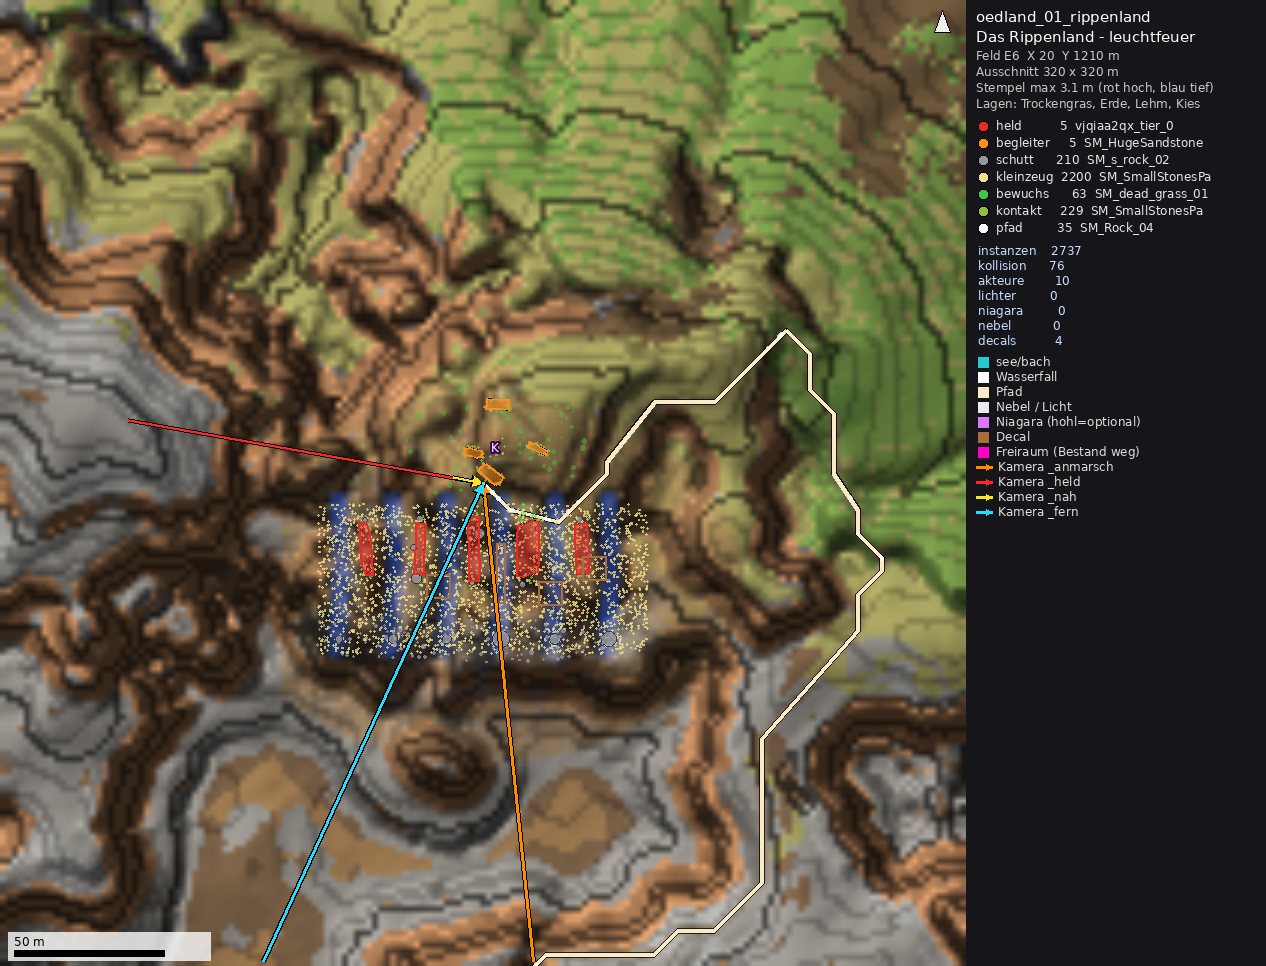
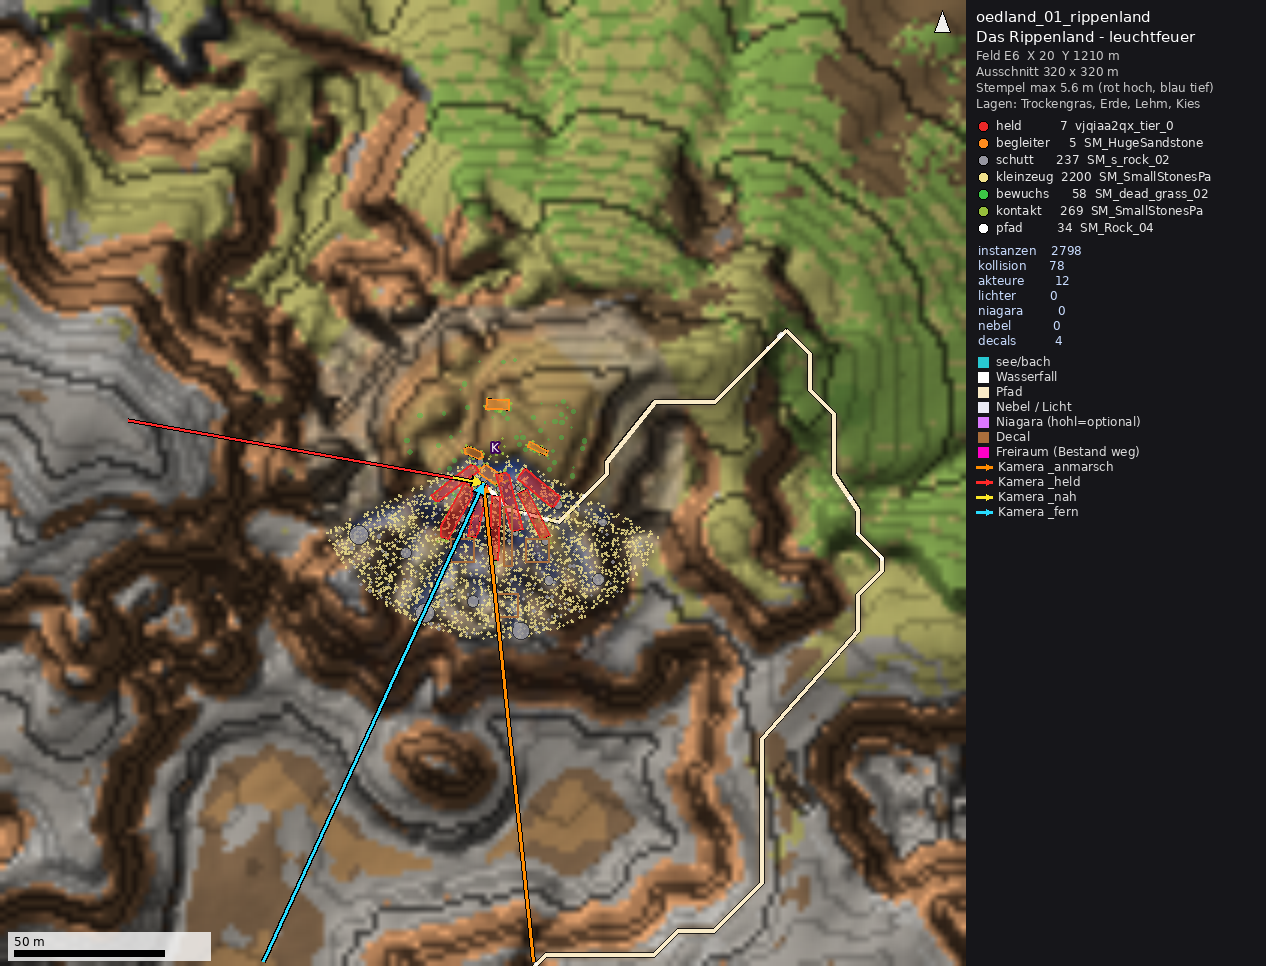
Auftrag 13 Phase 2: Planer Canyon, Wueste, Oedland fertig (je 8 Orte, Inventar 13d, Testbilder, READMEs)
Pruefer je Biom 0 FEHLER / 0 WARNUNG, zwei Laeufe byteidentisch, alle Fundstuecke mit Stempel verdeckt
(canyon_04/08, oedland_05/07/08 erst mit Stempel). Oedlandpfad meterweise auf die Lagenfenster verteilt.

Claude-Session: https://claude.ai/code/session_012h1LYW6NJeQxhd7im8Kkes

diff --git a/recherche/antworten/skripte/sehens_canyon/README.md b/recherche/antworten/skripte/sehens_canyon/README.md
@@ -1,0 +1,44 @@
+# sehens_canyon – Sehenswürdigkeiten-Planer Canyon (Auftrag 13, Phase 2)
+
+Baut die 8 Canyon-Orte aus `antworten/sehens/canyon/standorte.json` nach `sehens_canyon_regeln.json` (Katalog
+`sehens/canyon/katalog.md`, `asset_bedarf.json` inkl. `abgleich_13d`, Inventar 13d) im Lieferformat
+`vorlagen/SEHENS_FORMAT.md`. Muster: [`../sehens_bergwald/`](../sehens_bergwald/), Schema: [`../sehens_lib/PLANER_ANLEITUNG.md`](../sehens_lib/PLANER_ANLEITUNG.md).
+
+```
+python -I recherche/antworten/skripte/sehens_canyon/sehens_canyon.py --daten2m recherche/vorlagen/daten/sehens \
+       --aus <Ordner> [--ort ID ...] [--bild --bild-ordner recherche/antworten/sehens/canyon] [--ohne-sicht]
+python -I sehens_canyon.py --basis <production>      # lokal: 1 m aus export/unreal/welt, Ausgabe dort
+```
+
+Eigener Code: Hook `daemme` (Wälle/Gräben mit `stempel.damm`, Regel `gelaende.daemme`) und die Verdeckungsprüfung aller
+Fundstücke mit `sehens_lib.verdeckung` (Gelände nach Stempel + geplante Felsen, Wege inkl. aller Pfade; Regel `verdeckung`
+legt Kern/Proben fest). Alles andere steht in den Regeln.
+
+## Testlauf 2 m (11.10.2026, ~56 s, zwei Läufe byteidentisch)
+
+Planer 0 FEHLER / 0 WARNUNG; Prüfer (`orte.json` + `sw_canyon`) **0 FEHLER, 0 WARNUNG**, 6 HINWEIS (eigenes Decal optional,
+Beschreibung in `fuer`).
+
+| Ort | Inst. | Koll. | Akteure | Stempel | Held / Besonderheit |
+|---|---|---|---|---|---|
+| 01 Sonnenfenster | 2 511 | 185 | 11 | 1,5 m | Bogen: 2 Pfeiler `vjqiaa2qx` (Formation Layered) + Sturz `vceoferfa` (Cliff Layered XL 03, Unterkante 6,5 m), Finne `vb1mbdega` |
+| 02 Wäger | 1 457 | 72 | 9 | 2,6 m | Sockel `ulbwebv` (Spire Large 05, schmal), Kopf `SM_RockSandstone_040` (Deckstein), gefallener Bruder + Schleifspur |
+| 03 Rote Stufe | 4 687 | 272 | 29 | 5,5 m | 3 Etagen Desert Western Cliff/Formation Layered entlang der Stufe, Simskanten `vbvqbbofa`, Überhang, 3 Kegel |
+| 04 Flüsterschlucht | 1 779 | 96 | 26 | 13,6 m | Kerbe bis −17 m entlang des Bachs (ist_wasser), Wände `venuafk` beidseitig (gekippt), Klemmblöcke, Bach + 25-m-Fall, NS_Waterfall_Small/Impact_Small/Stream_Small |
+| 05 Hoodoo-Kessel | 2 668 | 145 | 42 | 18,1 m | Kessel bis 13 m unter den Rand (absolute Sohle, Canyonboden unberührt), 12 Hoodoos aus Spires + 3 Riesen `vh3oagiga`, Decksteine |
+| 06 Kolke | 1 580 | 63 | 14 | 1,6 m | 6 Kolke (`see`, klar) auf Slickrock (Desert Ground Patches), Rinnen, Binsenkranz, Nassband |
+| 07 Smaragdgumpe | 1 215 | 78 | 14 | 8,0 m | Alkoven −5 m + Riegel +8 m, Gumpe `smaragd` + Abfluss + Fadenfall 31 m, NS_Waterfall_Medium/Impact_Medium/Stream_Small, hängender Garten |
+| 08 Welle | 1 190 | 65 | 2 | 10,2 m | Mulde (absolute Sohle) mit Abfluss SW, Platten aus Desert Ground/Slate Patches, Schichtwand `vb1mbdega`, eigenes Decal `decal_welle.png` |
+
+Je Feld: C4 4 690, D4 12 397 Instanzen. Verdeckung (Fundstücke 04–08): alle **verdeckt** (0 Wegpunkte mit Sicht > 15 %),
+04 und 08 erst mit dem Stempel (heute sichtbar). Materialwünsche 5/6: `Canyon_Rotband`, `_Gumpenmoos`, `_Sandfuss`,
+`_Deckstein` (nur Bestands-Sandstein; Desert-Western-Netze behalten ihre Fab-Materialien) und `Welle_Streifen`
+(M_MS_Decal + `antworten/sehens/canyon/decal_welle.png`/`_n.png`, prozedural).
+
+## Grenzen und offene Punkte
+
+- Pivot/Schauseite der Desert-Western-Netze unbekannt (`netze_masse.json` hat sie nicht): Pivot unten Mitte, `front_achse +y`
+  angenommen – Editorbild prüfen (besonders Bogen 01, Spaltwände 04, Alkoven 07).
+- Gewollte Hohlformen (Spalt-Kolk 04, Kesselkolke 05, Tinajas 06, Alkovenkolke 07, Simsmulden 03) tragen `senke_begruendung`.
+- `uldubik_tier_0`/`uk5ebcp_tier_0` (13d unvollständig) werden nicht gesetzt (Lib meldet sie jetzt als FEHLER).
+- Hollowstone Canyon (Kauf offen) und Wadi Rum/Procedural Rocks stehen weiter in `assets_wunsch`.

diff --git a/recherche/antworten/skripte/sehens_oedland/README.md b/recherche/antworten/skripte/sehens_oedland/README.md
@@ -1,0 +1,46 @@
+# sehens_oedland – Sehenswürdigkeiten-Planer Ödland (Auftrag 13, Phase 2)
+
+Baut die 8 Ödland-Orte aus `antworten/sehens/oedland/standorte.json` (inkl. **Ödlandpfad**, 3 Äste in `pfade`) nach
+`sehens_oedland_regeln.json` (Katalog, `asset_bedarf.json` inkl. `abgleich_13d`, Inventar 13d). Aufbau wie
+[`../sehens_canyon/`](../sehens_canyon/) (Hook `daemme`, Verdeckungsprüfung der Fundstücke).
+
+```
+python -I recherche/antworten/skripte/sehens_oedland/sehens_oedland.py --daten2m recherche/vorlagen/daten/sehens \
+       --aus <Ordner> [--bild --bild-ordner recherche/antworten/sehens/oedland]
+```
+
+## Ödlandpfad – jeder Meter in genau einem Lagenfenster
+
+| Ast (Länge) | Abschnitt → Ort |
+|---|---|
+| Abstieg (490 m) | 0–160 m → oedland_02 (`pfad.abschnitte`), 160–490 m → oedland_05 |
+| Ost (827 m) | 0–230 m → oedland_05, 230–608 m → oedland_06 (+ Zugang), 608–827 m → oedland_03 |
+| West (550 m) | 0–380 m → oedland_05, 380–530 m → oedland_07, 530–550 m → oedland_08 (+ Zugang) |
+
+Dafür hat die Lib (additiv) `pfad.pfad_id`, `pfad.abschnitt [von, bis]` und `pfad.abschnitte` bekommen (`orte.json`:
+`pfad`, `pfad_zugang`, `pfad_abschnitte`). Die übrigen Orte bekommen ihren Fußweg `pfad_cm` als Band. Felsstufen ab 18°.
+
+## Testlauf 2 m (11.10.2026, ~43 s, zwei Läufe byteidentisch)
+
+Planer 0 FEHLER / 0 WARNUNG; Prüfer **0 FEHLER, 0 WARNUNG**, 1 HINWEIS.
+
+| Ort | Inst. | Koll. | Akteure | Stempel | Held / Besonderheit |
+|---|---|---|---|---|---|
+| 01 Rippenland | 2 798 | 78 | 12 | 5,3 m | 8 Rinnen radial vom Grat (verschieden lang/tief), 7 Messerrücken (Formation Layered), Schwemmkegel aus Mound/Slope Mud, toter Baum auf dem Grat |
+| 02 Regenbogenhang | 2 275 | 60 | 27 | 3,4 m | Bänder: Cliff Layered + `SM_big_rock_wall_*` in Rot/Violett, farbige Schwemmkegel, Ödlandpfad-Abstieg 0–160 m |
+| 03 Höllentor | 1 247 | 69 | 24 | 4,5 m | Krater (Boden +0,3 m, Auswurfwall +4,5 m → ~8 m tief), verrußte Wand, NS_Fire + FX_Lava_Smoke_02 + FX_Distortion_Big, 2 Glutlichter, Glut-/Ruß-Decals |
+| 04 Dornbusch-Senke | 1 632 | 31 | 1 | 3,2 m | Senke −1,5 m mit Abflussrinne, toter Baum `SM_Dead_Tree_02`, Dornriegel, Nebel |
+| 05 Kugelsteine | 1 908 | 94 | 11 | 6,4 m | Fächer +1,5 m, Kolk bis +0,4 m, Konkretionen halb in der Wand, Pfad-Knoten (3 Abschnitte) |
+| 06 Schlammvulkänchen | 799 | 16 | 0 | 3,5 m | 7 Kegel mit Krater-`see` (moorbraun), Mud-Mound-Mäntel, Ringwall, 2× NS_Bubble_Burst + NS_SmokePuffLight |
+| 07 Totenpfanne | 866 | 26 | 11 | 3,7 m | Pfanne −3,5 m + Uferwall Nord, 11 schwarze tote Bäume, Riss-Decals |
+| 08 Erdröhren | 933 | 12 | 5 | 8,0 m | 3 Schlucklöcher (−7/−5/−4 m), Einbruchrinne, Erdbrücke über dem Hauptschacht, Nebel im Schacht |
+
+Verdeckung: 04–08 verdeckt; 05, 07, 08 erst mit dem Stempel (Pflicht), 06 dank Ringwall.
+Materialwünsche 6/6: `Oedland_Ton`, `_Rot`, `_Violett`, `Russ`, `Konkretion`, `Totholz_Schwarz`.
+
+## Grenzen und offene Punkte
+
+- Meeresniveau: Krater (03), Kolk (05) und Salsenmulde (06) liegen im Flachland bei 4–7 m; Sohlen bleiben ≥ +0,3 m, die
+  Tiefe kommt zum Teil aus Wällen. Gewollte Hohlformen tragen `senke_begruendung`.
+- Niagara-Beispielsysteme (NS_Fire, NS_Bubble_Burst) brauchen Kopien mit kleinen, langsamen Partikeln (Hinweis im Effekt).
+- Ein Feuerklang fehlt im Bestand (Wunsch Fantasy Ambiences).

diff --git a/recherche/antworten/skripte/sehens_wueste/README.md b/recherche/antworten/skripte/sehens_wueste/README.md
@@ -1,0 +1,36 @@
+# sehens_wueste – Sehenswürdigkeiten-Planer Wüste (Auftrag 13, Phase 2)
+
+Baut die 8 Wüsten-Orte aus `antworten/sehens/wueste/standorte.json` nach `sehens_wueste_regeln.json` (Katalog
+`sehens/wueste/katalog.md`, `asset_bedarf.json` inkl. `abgleich_13d`, Inventar 13d) im Lieferformat `vorlagen/SEHENS_FORMAT.md`.
+Aufbau wie [`../sehens_canyon/`](../sehens_canyon/) (Hook `daemme`, Verdeckungsprüfung der Fundstücke).
+
+```
+python -I recherche/antworten/skripte/sehens_wueste/sehens_wueste.py --daten2m recherche/vorlagen/daten/sehens \
+       --aus <Ordner> [--ort ID ...] [--bild --bild-ordner recherche/antworten/sehens/wueste]
+```
+
+**Die gebauten Wüstenfelder werden nur ergänzt:** keine `freiraeume`, kein `entfernen` in `plan.json`.
+
+## Testlauf 2 m (11.10.2026, ~58 s, zwei Läufe byteidentisch)
+
+Planer 0 FEHLER / 0 WARNUNG; Prüfer **0 FEHLER, 0 WARNUNG**, 12 HINWEIS (eigenes Salz-Decal optional).
+
+| Ort | Inst. | Koll. | Akteure | Stempel | Held / Besonderheit |
+|---|---|---|---|---|---|
+| 01 Yardang-Flotte | 2 684 | 106 | 12 | 3,0 m | 4 Rümpfe NW→SO: Bug `veonegs` (Formation XL 01), Rumpf/Heck Cliff/Ledge Layered; Schutt nur am Bug, Sandfahnen im Lee |
+| 02 Sterndüne | 947 | 37 | 1 | 22,5 m | Düne aus Kegel + 3 Kammwällen (Hook `daemme`), halb begrabener toter Köcherbaum, Rippel-Decals (Coast & Dunes) |
+| 03 Die Wächter | 2 451 | 77 | 19 | 1,7 m | 7 Pilzfelsen: Fuß Desert Spire (gedrungen) + Kappe `SM_RockSandstone_040` (Wüstenlack), Deflationspflaster |
+| 04 Quelloase | 1 364 | 113 | 12 | 7,0 m | Quelltopf `tuerkis` + Rinnsal (versickert), 5 Fächerpalmen + Jungpalmen, Feuchtring, NS_Stream_Small, Nassband |
+| 05 Salzpfanne | 1 033 | 18 | 10 | 6,0 m | Pfanne −1 m + Dünenriegel +6 m (Pflicht-Verdeckung), Restsole `salzweiss`, 9 Salz-Decals (eigene Textur `decal_salzkruste.png`) |
+| 06 Windkanter-Feld | 8 255 | 141 | 1 | – | 8 000 eingeregelte Pflastersteine (NW–SO), Dreikanter mit Wüstenlack |
+| 07 Trockenes Wadi | 1 392 | 110 | 7 | 2,0 m | Flutrinne mit sortiertem Geröll, Fallkante (Ledge Rock), Prallhänge mit Treibholz 1,8 m über der Sohle, 2 Akazien-Ersatz |
+| 08 Wabenwand | 961 | 36 | 10 | – | Nordwand aus Cliff Layered, Nische mit Köcherbaum, 12 Decals (Lack + Waben-Ersatz Clay) |
+
+Je Feld: D3 2 640, E3 3 786, E4 12 661 Instanzen. Verdeckung (Fundstücke 04–08): alle verdeckt.
+Materialwünsche 4/6: `Wuestenlack`, `Salzkruste`, `Wueste_Sandauflage`, `Salz_Decal` (M_MS_Decal + PNG).
+
+## Grenzen und offene Punkte
+
+- Wadi (07): der 2-m-Talgrund ist schon eine geschlossene Hohlform → `senke_begruendung`; im 1-m-Lauf prüfen.
+- Pilzfelsen (03) sind gebändert statt kreideweiß (Desert-Western-Spires laut 13d); weiße Kappen nur per Material möglich.
+- Echte Tafoni-Waben (08) erst mit Hollowstone Canyon (Kauf offen) – bis dahin Decals.
